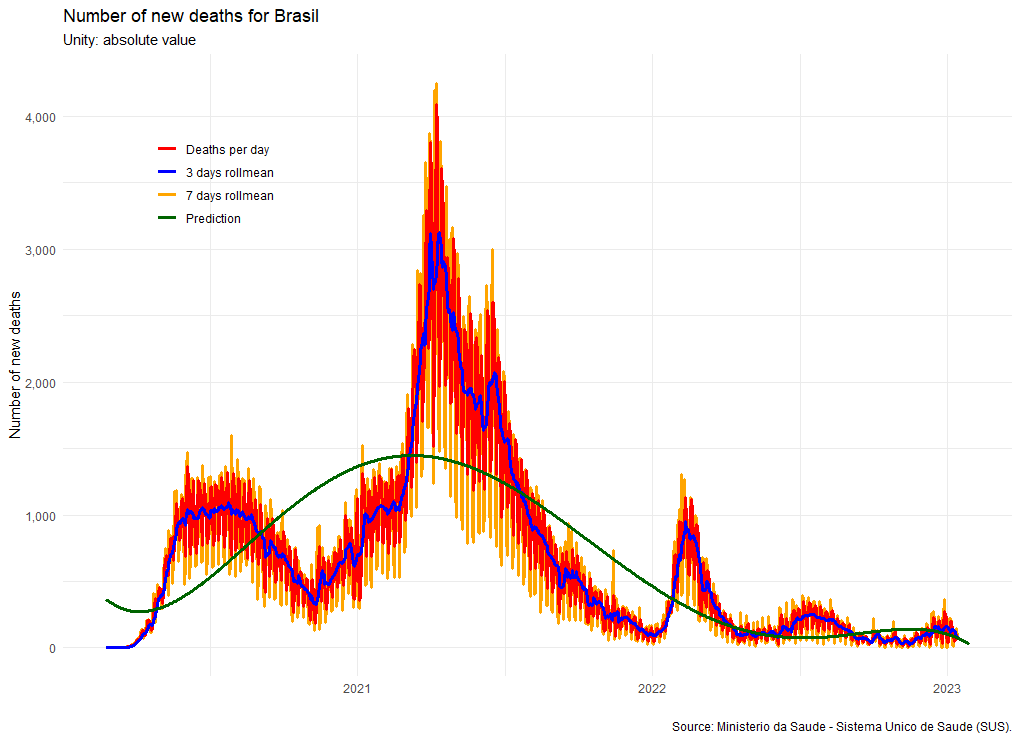
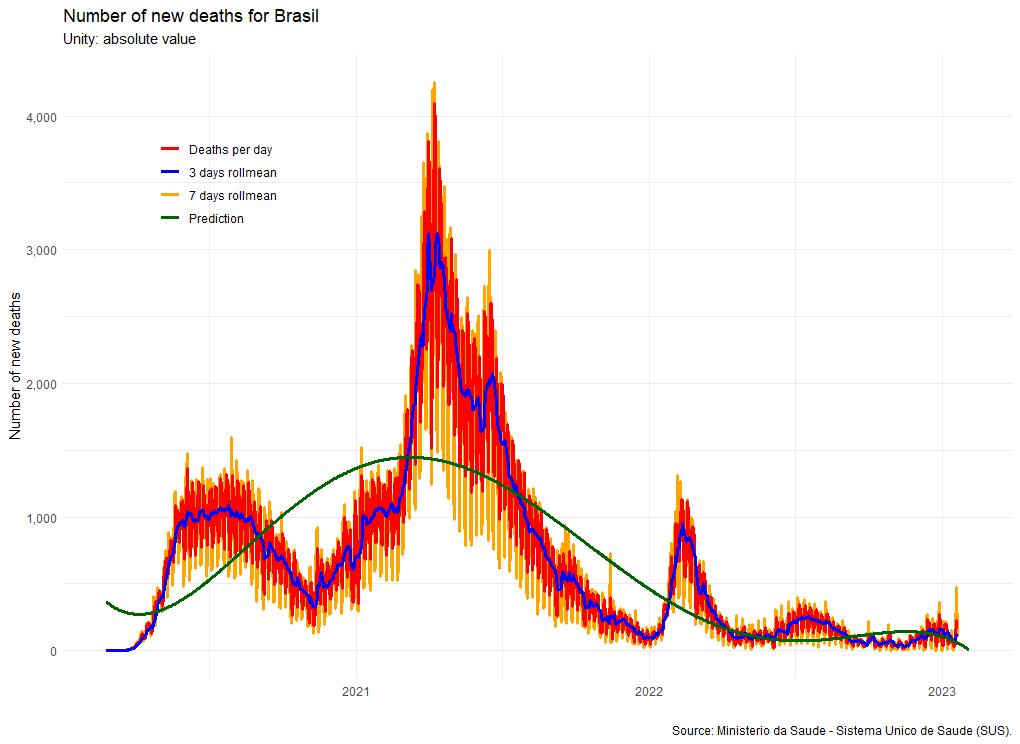
Update README file

diff --git a/README.md b/README.md
@@ -232,7 +232,7 @@ cases, respectively, for Brazil and for the municipality of Sao Joao del
 Rey (belonging to the state of Minas Gerais), a 3-day moving average, a
 7-day moving average and the forecast, obtained by polynomial
 interpolation of degree 5, covering the entire period plus 15 days (last
-day of observed data is 2023-01-13).
+day of observed data is 2023-01-20).
 
 <img src="man/figures/predCases.png" width="100%" />  
 
@@ -267,7 +267,7 @@ caused by Covid-19, respectively, for Brazil and for the municipality of
 Sao Joao del Rey (belonging to the state of Minas Gerais), a 3-day
 moving average, a 7-day moving average and the forecast, obtained by
 polynomial interpolation of degree 5, covering the entire period plus 15
-days (last day of observed data is 2023-01-131).
+days (last day of observed data is 2023-01-20).
 
 <img src="man/figures/predDeaths.png" width="100%" />  
 
